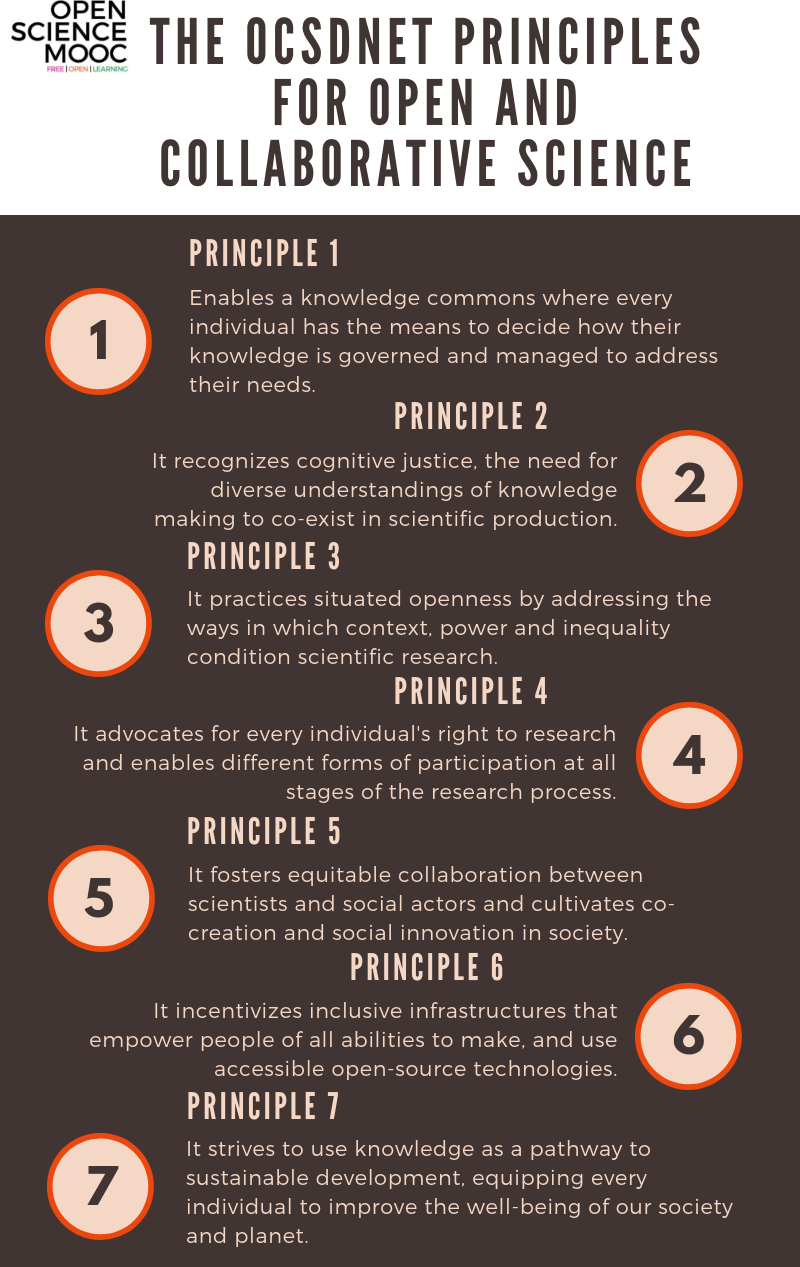
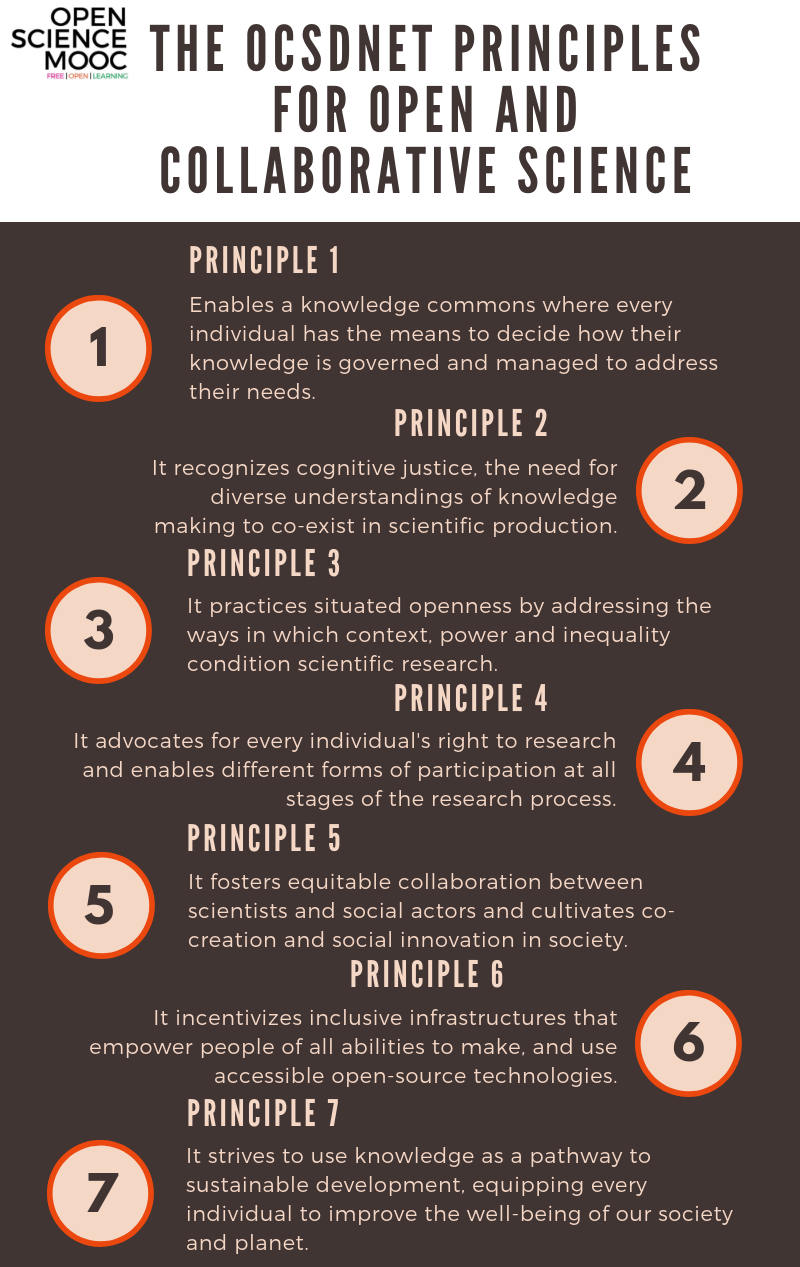
Added a bit of white space to the ocsdnet infographic

diff --git a/content_development/Task_2.md b/content_development/Task_2.md
@@ -9,11 +9,13 @@ output:
 
 **You are more than just your publications.**
 
-This task is designed for researchers who want to help to build their online profile while helping to amplify their work. Think of this task like a way of creating an online CV for your work.
+This task is designed for researchers who want to help to build their online profile while helping to amplify their work. Think of this task like a way of creating an online CV for showcasing your research.
 
 Estimated time to complete: 30 minutes.
 
 Estimated time saved: Immeasurable, but probably a lot.
+
+Don't forget you can join in the discussions over at our open [**Slack channel**](https://openmooc-ers-slackin.herokuapp.com/). Please do introduce yourself at #module1principles, and tell us a bit about who you are, your background, and how you ended up here!
 
 ## Table of contents
 

diff --git a/content_development/Task_1.md b/content_development/Task_1.md
@@ -9,6 +9,9 @@ This task is designed for, well, everyone!
 
 Estimated time to complete: 30-90 minutes.
 
+Don't forget you can join in the discussions over at our open [**Slack channel**](https://openmooc-ers-slackin.herokuapp.com/). Please do introduce yourself at #module1principles, and tell us a bit about who you are, your background, and how you ended up here!
+
+
 ## Table of contents
 
 * [Getting started](#Getting_started)
